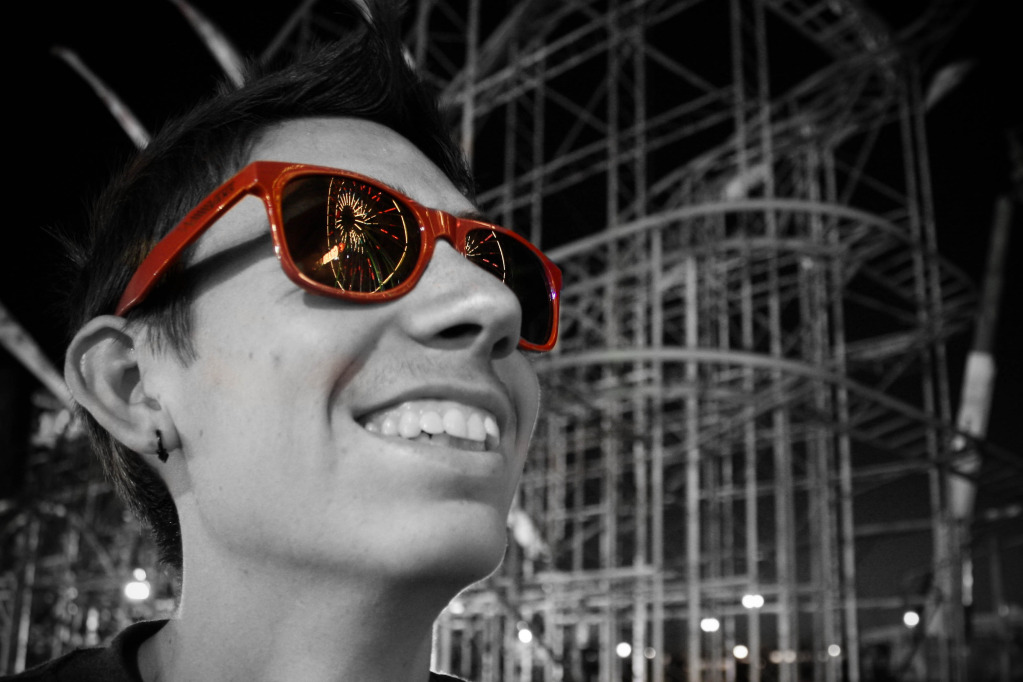
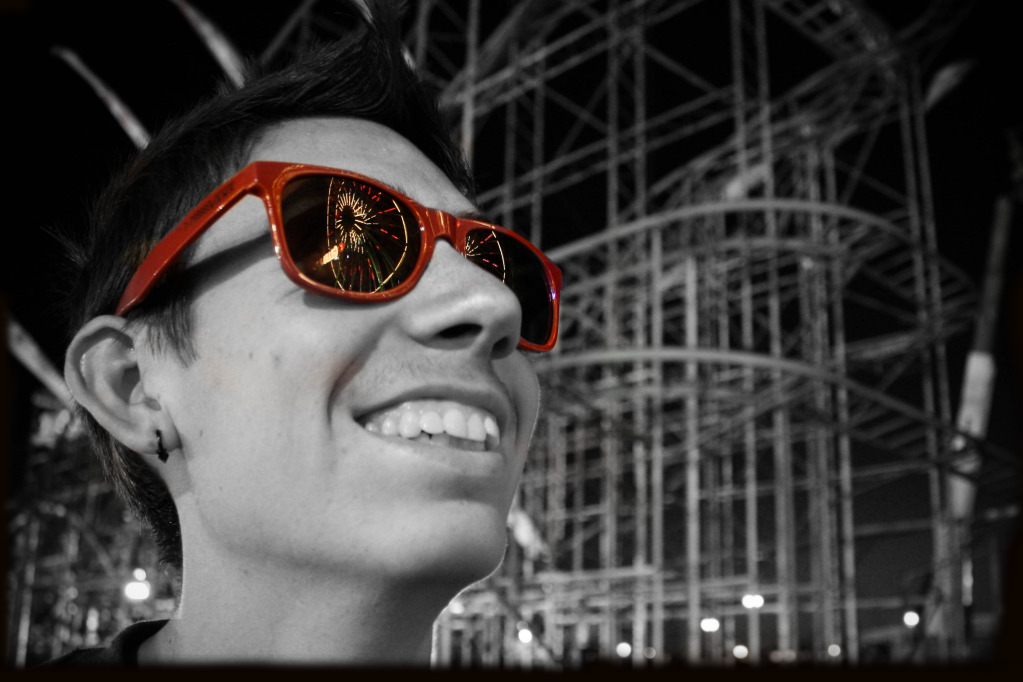
fixed background and moved text to the right

diff --git a/index.html b/index.html
@@ -59,22 +59,23 @@
 			  <li class="divider-vertical"></li>
               <li class="">
                 <a href="./base-css.html">Get Some Goods</a>
-				<li class="divider-vertical"></li>
               </li>
+                <li class="divider-vertical"></li>
 			</ul>
           </div>
 		</div>
 	   
 	   </div>
 	  </div>
-    </div>
 	<div class="container">
-	 <h3>Hi, I'm Eddie Good.</h3>
-	 <h3>This is my website.</h3>
-	 <h3>Be sure to take a look around.</h3>
+    <div id="main" class="span6">
+      <h3>Hi, I'm Eddie Good.</h3>
+      <h3>This is my website.</h3>
+      <h3>Be sure to take a look around.</h3>
+    </div>
 	 
 	
-     
+</div>
   <footer>
 
   </footer>

diff --git a/css/style.css b/css/style.css
@@ -1,7 +1,12 @@
 body { 
-background-image:url('the-fair.png');
-color: #ffffff;
+  background-color: #000;
+  background-image: url('../the-fair.png');
+  background-repeat: no-repeat;
+  color: #ffffff;
 }
 h3 {
-color: #ffffff
+  color: #ffffff
+}
+#main {
+  float: right;
 }
